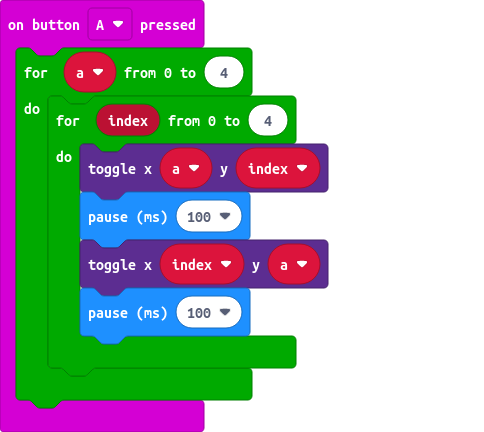
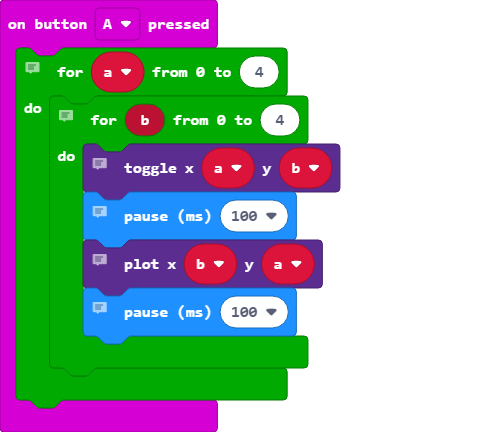
Update main.blocks, main.ts

Changed region(s): [[0.031, 0.0, 0.7128, 0.9329], [0.4029, 0.9028, 0.4649, 1.0], [0.031, 0.2407, 0.093, 0.2708]]

diff --git a/main.ts b/main.ts
@@ -1,9 +1,15 @@
 input.onButtonPressed(Button.A, function () {
+    // runs inside code 5 times while increasing "a" by 1 each time
     for (let a = 0; a <= 4; a++) {
-        for (let index = 0; index <= 4; index++) {
-            led.toggle(a, index)
+        // runs inside code 5 times while increasing "b" by 1 each time
+        for (let b = 0; b <= 4; b++) {
+            // toggles leds at (a,b)
+            led.toggle(a, b)
+            // pauses for 100ms
             basic.pause(100)
-            led.toggle(index, a)
+            // plots leds at (b,a)
+            led.plot(b, a)
+            // pauses for 100ms
             basic.pause(100)
         }
     }
